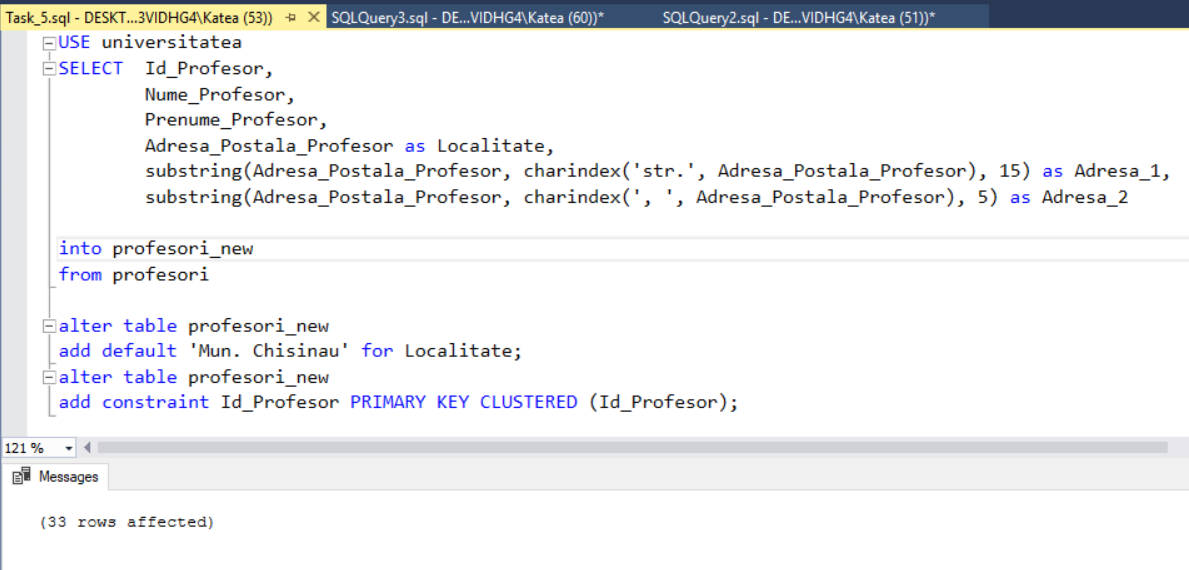
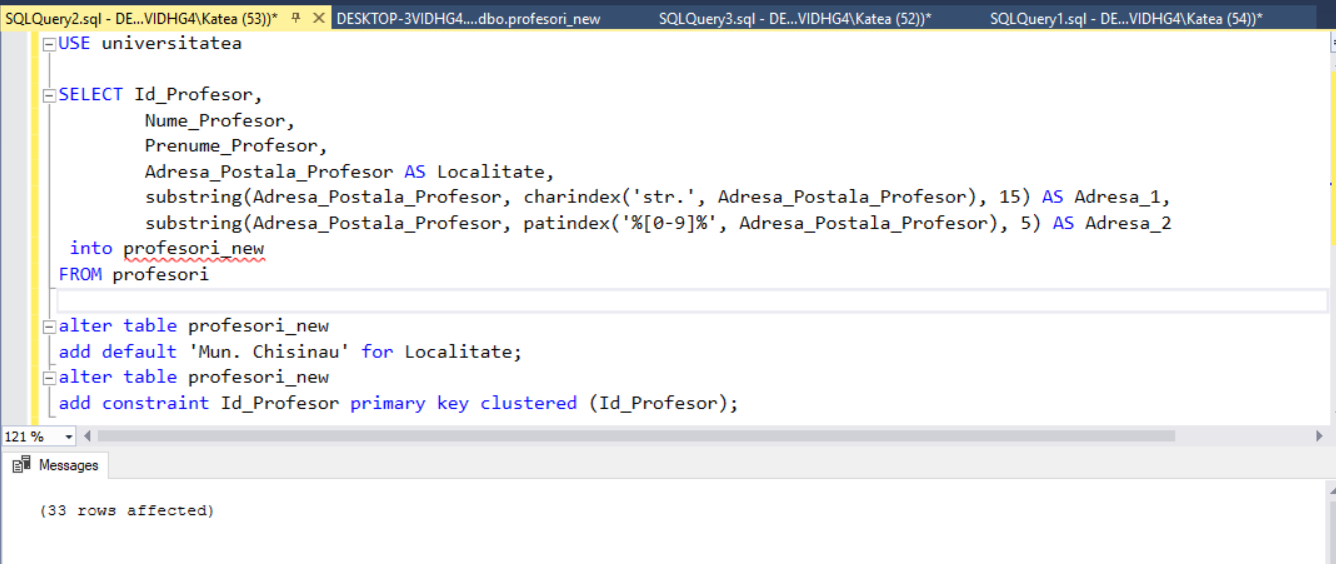
Laboratory-work-6

Changed region(s): [[0.0, 0.0, 1.0, 0.844], [0.0311, 0.8741, 0.1867, 0.9344], [0.9958, 0.844, 1.0, 1.0]]

diff --git a/Laboratory-work-6/README.md b/Laboratory-work-6/README.md
@@ -66,44 +66,50 @@ ALTER COLUMN column_name;
 
 a) *Seful grupei* trebuie sa aiba cea mai buna reusita (medie) din grupa la toate formele de evaluare si la toate disciplinele. Un student nu poate fi sef de grupa la mai multe grupe.
 
-DECLARE @id_grupa_current INT 
-		, @group_count INT;
-SET @id_grupa_current = 0;
-SET @group_count = (SELECT count(Id_Grupa)
-                    FROM grupe);
-WHILE @id_grupa_current < @group_count 
+DECLARE c1 CURSOR FOR 
+SELECT id_grupa FROM grupe 
+
+DECLARE @gid int
+    ,@sid int
+    ,@pid int
+
+OPEN c1
+FETCH NEXT FROM c1 into @gid 
+WHILE @@FETCH_STATUS = 0
 BEGIN
-    SET @id_grupa_current = @id_grupa_current + 1
-    update grupe
-    SET Sef_grupa =  (
-        SELECT DISTINCT Id_Student
-        FROM studenti_reusita
-        WHERE Id_Student in (SELECT Id_Student 
-            FROM studenti_reusita
-            GROUP BY Id_Student, Id_Grupa
+ SELECT TOP 1 @sid=id_student
+   FROM studenti_reusita
+   WHERE id_grupa = @gid and Id_Student NOT IN (SELECT isnull(sef_grupa,'') FROM grupe)
+   GROUP BY id_student
+   ORDER BY avg (NOTA) DESC
 
-            HAVING avg(cast(Nota AS FLOAT)) = any(
-                SELECT max(media)
-                FROM (
-                SELECT  Id_Grupa, Id_Student, avg(cast(studenti_reusita.Nota AS FLOAT)) AS media
-                FROM studenti_reusita
-                GROUP BY Id_Student, Id_Grupa) AS T
-                GROUP BY Id_Grupa
-            ) and Id_Grupa = @id_grupa_current
-        ) 
-    )
-    WHERE Id_Grupa = @id_grupa_current
-	END;
+ SELECT TOP 1 @pid=id_profesor
+      FROM studenti_reusita
+      WHERE id_grupa = @gid AND Id_profesor NOT IN (SELECT isnull (prof_indrumator, '') FROM grupe)
+      GROUP BY id_profesor
+      ORDER BY count (DISTINCT id_disciplina) DESC, id_profesor
+ 
+ UPDATE grupe
+    SET   sef_grupa = @sid
+      ,prof_indrumator = @pid
+  WHERE Id_Grupa=@gid
+ 
+-- PRINT @gid
+-- PRINT @sid
+-- PRINT @pid
+ FETCH NEXT FROM c1 into @gid 
+END
 
-![Nr3-a](https://github.com/KatyaFAF172/BD/blob/master/Laboratory-work-6/image/Nr3-a.png)
+CLOSE c1
+DEALLOCATE c1
 
-![Nr3-a-1](https://github.com/KatyaFAF172/BD/blob/master/Laboratory-work-6/image/Nr3-a-1.png)
 
-![Nr3-a-2](https://github.com/KatyaFAF172/BD/blob/master/Laboratory-work-6/image/Nr3-a-2.png)
+![Nr3](https://github.com/KatyaFAF172/BD/blob/master/Laboratory-work-6/image/Nr3.png)
+
+![Nr3-1](https://github.com/KatyaFAF172/BD/blob/master/Laboratory-work-6/image/Nr3-1.png)
 
 
 b) *Profesorul indrumator* trebuie sa predea un numar maximal posibil de discipline la grupa data. Daca nu exista o singura candidatura, care corespunde primei cerinte, atunci este ales din grupul de candidati acel cu identificatorul (Id_Profesor) minimal. Un profesor nu poate fi indrumator la mai multe grupe.
-
 
 
 c)Sa se scrie instructiunile *ALERT, SELECT, UPDATE* necesare pentru crearea coloanelor in tabelul grupe, pentru selectarea candidatilor si inserarea datelor.
@@ -125,22 +131,25 @@ c) Sa se insereze toate datele din tabelul *profesori* in tabelul *profesori_new
 In coloana *Localitate* sa fie inserata doar informatia despre denumirea localitatii din coloana-sursa *Adresa_Postala_Profesor*. In coloana Adresa_1, doar denumirea strazii. In coloana Adresa_2, sa se pastreze numarul casei si (posibil) a apartamentului.
 
 USE universitatea
-SELECT  Id_Profesor, 
-		Nume_Profesor, 
-		Prenume_Profesor, 
-		Adresa_Postala_Profesor as Localitate, 
-		substring(Adresa_Postala_Profesor, charindex('str.', Adresa_Postala_Profesor), 15) as Adresa_1, 
-		substring(Adresa_Postala_Profesor, charindex(', ', Adresa_Postala_Profesor), 5) as Adresa_2
 
-into profesori_new
-from profesori
+SELECT Id_Profesor,
+		Nume_Profesor,
+		Prenume_Profesor,
+		Adresa_Postala_Profesor AS Localitate,
+		substring(Adresa_Postala_Profesor, charindex('str.', Adresa_Postala_Profesor), 15) AS Adresa_1,
+		substring(Adresa_Postala_Profesor, patindex('%[0-9]%', Adresa_Postala_Profesor), 5) AS Adresa_2
+ into profesori_new
+FROM profesori
 
 alter table profesori_new
 add default 'Mun. Chisinau' for Localitate;
-alter table profesori_new   
-add constraint Id_Profesor PRIMARY KEY CLUSTERED (Id_Profesor);
+alter table profesori_new
+add constraint Id_Profesor primary key clustered (Id_Profesor);
+
 
 ![Nr5](https://github.com/KatyaFAF172/BD/blob/master/Laboratory-work-6/image/Nr5.png)
+
+![Nr5-1](https://github.com/KatyaFAF172/BD/blob/master/Laboratory-work-6/image/Nr5-1.png)
 
 
 6. Sa se insereze datele in tabelul *orarul* pentru Grupa = 'CIB171' (Id_Grupa = 1) pentru ziua de luni. Toate lectiile vor avea loc in blocul de studii 'B'. Mai jos, sunt prezentate detaliile de inserare:
@@ -149,6 +158,24 @@ add constraint Id_Profesor PRIMARY KEY CLUSTERED (Id_Profesor);
 (Id_Disciplina = 108, Id_Profesor = 101, Ora = '11:30', Auditoriu = 501);
 (Id_Disciplina = 119, Id_Profesor = 117, Ora = '13:00', Auditoriu = 501);
 
+create table orarul
+	(Id_Profesor int not null
+	,Id_Disciplina int not null
+	,Id_Grupa int default(1)
+	,Bloc char(255) default('B')
+	,Auditoriu int
+	,Ora time
+	,Zi char(10) 
+	primary key(Id_Grupa,Zi,Id_Disciplina));
+	
+insert into orarul(Id_Disciplina, Id_Profesor, Zi, Ora, Auditoriu) values(107, 101, 'Luni', '08:00', 202)
+insert into orarul(Id_Disciplina, Id_Profesor, Zi, Ora, Auditoriu) values(108, 101, 'Luni', '11:30', 501)
+insert into orarul(Id_Disciplina, Id_Profesor, Zi, Ora, Auditoriu) values(119, 117, 'Luni', '13:00', 501)
+
+
+![Nr6](https://github.com/KatyaFAF172/BD/blob/master/Laboratory-work-6/image/Nr6.png)
+
+![Nr6-1](https://github.com/KatyaFAF172/BD/blob/master/Laboratory-work-6/image/Nr6-1.png)
 
 7. Sa se scrie expresiile T-SQL necesare pentru a popula tabelul *orarul* pentru grupa INF171, ziua de luni.
 
@@ -157,6 +184,8 @@ Datele necesare pentru inserare trebuie sa fie colectate cu ajutorul instructiun
 lectie #1 (Ora = '08:00', Disciplina = 'Structuri de date si algoritmi', Profesor = 'Bivol Ion')
 lectie #2 (Ora = '11:30', Disciplina = 'Programe aplicative', Profesor = 'Mircea Sorin')
 lectie #3 (Ora = '13:00', Disciplina = 'Baze de date', Profesor = 'Micu Elena')
+
+
 
 8. Sa se scrie interogarile de creare a indecsilor asupra tabelelor din baza de date *universitatea* pentru a asigura o performanta sporita la executarea interogarilor SELECT din Lucrarea practica 4. Rezultatele optimizarii sa fie analizate in baza planurilor de executie, pana la si dupa crearea indecsilor.
 
@@ -167,31 +196,41 @@ select distinct Id_Disciplina, Id_Profesor, Id_Grupa
 into orarul
 from studenti_reusita
 where Id_Grupa = 1 or Id_Grupa = 2 
-alter table orarul add ora varchar(5) NULL, Auditoriu int NULL;
+alter table orarul add ora varchar(5) NULL, Auditoriu int NULL, Bloc char(255), Zi char(10);
 go
 
 create nonclustered index NIX_task6  
-    on orarul (Id_Disciplina, Id_Profesor, Id_Grupa)  
+    on orarul (Id_Disciplina, Id_Profesor, Id_Grupa, Bloc, Zi)  
 go
 
+alter database universitatea
+add filegroup userdatafgroup1;
+go
 alter database universitatea
 add file (name = FGTask6, filename = 'C:\Program Files\Microsoft SQL Server\MSSQL14.MSSQLSERVER\MSSQL\DATA\FGTask6.ndf')
 to filegroup userdatafgroup1;
 
-update orarul set ora = '08:00', Auditoriu = 202 where Id_Disciplina = 107 and Id_Grupa = 1;
-update orarul set ora = '11:30', Auditoriu = 501 where Id_Disciplina = 108 and Id_Grupa = 1;
-update orarul set ora = '13:00', Auditoriu = 501 where Id_Disciplina = 119 and Id_Grupa = 1;
+update orarul set ora = '08:00', Auditoriu = 202, Bloc = 'B', Zi = 'Luni' where Id_Disciplina = 107 and Id_Grupa = 1;
+update orarul set ora = '11:30', Auditoriu = 501, Bloc = 'B', Zi = 'Luni' where Id_Disciplina = 108 and Id_Grupa = 1;
+update orarul set ora = '13:00', Auditoriu = 501, Bloc = 'B', Zi = 'Luni' where Id_Disciplina = 119 and Id_Grupa = 1;
 go
 
-update orarul set ora = '08:00', Auditoriu = 123 where Id_Disciplina = 108 and Id_Grupa = 2;
-update orarul set ora = '11:30', Auditoriu = 321 where Id_Disciplina = 120 and Id_Grupa = 2;
-update orarul set ora = '13:00', Auditoriu = 602 where Id_Disciplina = 107 and Id_Grupa = 2;
+update orarul set ora = '08:00', Auditoriu = 123, Bloc = 'B', Zi = 'Luni' where Id_Disciplina = 108 and Id_Grupa = 2;
+update orarul set ora = '11:30', Auditoriu = 321, Bloc = 'B', Zi = 'Luni' where Id_Disciplina = 120 and Id_Grupa = 2;
+update orarul set ora = '13:00', Auditoriu = 602, Bloc = 'B', Zi = 'Luni' where Id_Disciplina = 107 and Id_Grupa = 2;
 go
 
 create nonclustered index NIX_task6  
-    on orarul (Id_Disciplina, Id_Profesor, Id_Grupa)  
+    on orarul (Id_Disciplina, Id_Profesor, Id_Grupa, Bloc, Zi)  
     with (DROP_EXISTING = on)  
     on userdatafgroup1; 
+
+
+
+![Nr8](https://github.com/KatyaFAF172/BD/blob/master/Laboratory-work-6/image/Nr8.png)
+
+![Nr8-1](https://github.com/KatyaFAF172/BD/blob/master/Laboratory-work-6/image/Nr8-1.png)
+
 
 
 ![Nr6_7_8](https://github.com/KatyaFAF172/BD/blob/master/Laboratory-work-6/image/Nr6_7_8.png)
